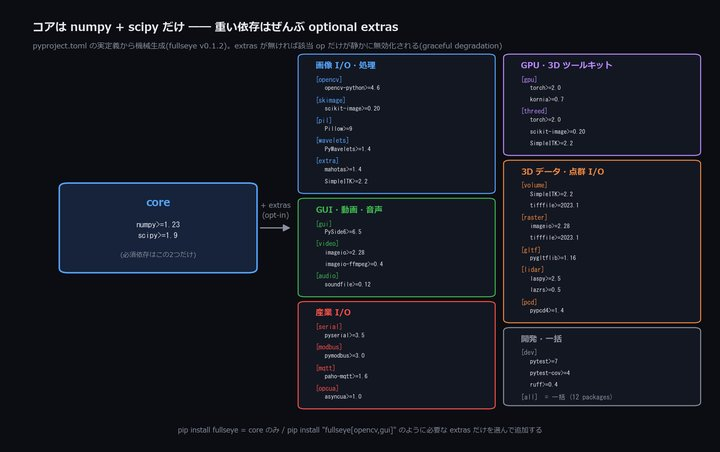
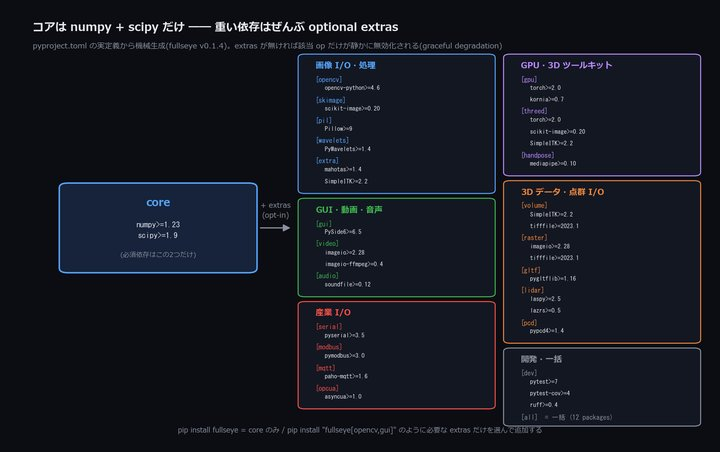
「テストは緑だが利用者だけ壊れる」構造を潰す: ブートストラップ 34 本 + 主張だけの検査 3 件
外部の発見担当の報告を一件ずつ一次検証して修正。

## 1. examples_3d 29 本 + tools 5 本にブートストラップが無かった

examples/ は 60/60 が sys.path ブートストラップを持つのに、examples_3d/ は
29 本、tools/ は 5 本が持たず **editable install に寄生**していた。実測:
site-packages の finder(2026-08-30 生成、200 モジュール)に torch_lazy が
入っておらず(追加は 09-01)、6 本が ModuleNotFoundError で全滅していた。
docs/OP_CATALOG.md は 112 件すべてに**裸の起動コマンド**を載せている。

## 2. なぜテストが緑のままだったか

examples3d.run() が **PYTHONPATH を無条件に注入**していたため、
**ドキュメントが案内する起動方法を一度も試していなかった**。既定で注入を
やめ(inject_path=True の opt-in に)、呼び出し側の PYTHONPATH も落とす。
docstring の起動例からも PYTHONPATH= を削除。

## 3. 主張だけあって実装が無かった検査

docs/ops/INDEX.md のヘッダは「この fingerprint が live レジストリと一致する
ことを CI drift テストが強制する」と書いているのに、検査は
`"fingerprint" in top` という**文字列の存在確認だけ**だった。実値比較に
したところ即座に本物の drift を検出 —— 目次は 851 op のまま live は 861 op で
**10 op が索引から欠落**していた(個別 md は存在するのに辿れない)。
opdocs.py toc で再生成し fp=f9b948fbb9223a04 で一致。

主張だけあって実装が無い検査は、無い検査より悪い。「守られている」と読める
文言が残るぶん、誰も見に行かなくなる。

## 4. 残り 3 件

- exhibit_tile._fit_label が**複数行ラベルで落ちる**(Pillow 12.3 の
  textlength は改行で ValueError)。「ラベルは 1 行」という関数の前提と、
  label_h=54 で 2 行ラベルを渡す呼び出し側の契約が食い違っていた。
  gen_wing2d_gallery が 11 subject 中 3 件で落ちていたのが exit 0 に。
- gen_backmatter_figs.py の groups 表が handpose extra(08-31 追加)に
  追随しておらず fail-closed で停止。図が 2 日間再生成できなかった。
- examples/quickstart.py が subprocess の **returncode を一切見ず**、
  4 段すべてが落ちても exit 0 になっていた。assert も参照テストも無い。
  終了コード検査 + 生成物の存在確認 + PASS 行を追加。
  入門の 1 本目が黙って失敗するのは、壊れた op より質が悪い。

フルスイート 9742 passed / 0 failed / 140 skipped。
[…]

Changed region(s): [[0.6722, 0.3407, 0.9778, 0.9602]]

diff --git a/tests/test_opdocs.py b/tests/test_opdocs.py
@@ -84,6 +84,32 @@ def test_index_and_samples_generated():
     assert "fingerprint" in top and "fullseye" in top, "version/fingerprint linkage missing in top INDEX"
 
 
+def test_index_fingerprint_matches_the_live_registry():
+    """目次の fingerprint が **live レジストリと実際に一致**すること。
+
+    INDEX.md のヘッダは「この fingerprint が live レジストリと一致することを
+    CI の drift テストが強制する」と書いているが、2026-09-02 まで検査は
+    ``"fingerprint" in top`` という**文字列の存在確認だけ**で、値を比べて
+    いなかった。実測: 目次は 851 op のまま live は 861 op で、**10 op が
+    目次から欠落**していた(個別の md は存在するのに索引から辿れない)。
+
+    主張だけあって実装が無い検査は、無い検査より悪い —— 「守られている」と
+    読める文言が残るぶん、誰も見に行かなくなる。
+    """
+    import re as _re
+    fp_live = OD._registry_fingerprint(_RECS)
+    m = _re.search(r"op-registry fingerprint ([0-9a-f]+)", top_index_text())
+    assert m, "INDEX.md のヘッダに fingerprint が見つからない"
+    assert m.group(1) == fp_live, (
+        f"docs/ops/INDEX.md の fingerprint {m.group(1)} が live レジストリの "
+        f"{fp_live} と違う — `py -3.11 tools/opdocs.py md` で再生成すること")
+
+
+def top_index_text():
+    with open(os.path.join(ROOT, "docs/ops/INDEX.md"), encoding="utf-8") as f:
+        return f.read()
+
+
 def test_every_family_has_a_guide():
     gdir = os.path.join(ROOT, "docs", "ops", "2d", "guides")
     have = {os.path.splitext(f)[0] for f in os.listdir(gdir)} if os.path.isdir(gdir) else set()

diff --git a/docs/SESSION_SUMMARY.md b/docs/SESSION_SUMMARY.md
@@ -3,332 +3,54 @@
 > 自動生成: `libexec/raptor-auto-summary` (Stop hook)
 > 次回 ccr 起動時に CLAUDE.md SESSION START で自動的に読み取られる。
 
-- **最終更新**: 2026-09-02 20:00:08
+- **最終更新**: 2026-09-02 20:38:07
 - **プロジェクト**: `C:/dev/projects/imgevolve`
 - **ブランチ**: `master`
 
 ## 直近の git log
 
 ```
+f6c44a4f2 auto: test_opdocs.py 編集前 (2026-09-02 20:15)
+90fbab3f9 auto: quickstart.py 編集前 (2026-09-02 20:15)
+2e5cb5c31 auto: gen_backmatter_figs.py 編集前 (2026-09-02 20:14)
+6f2bd047f auto: exhibit_tile.py 編集前 (2026-09-02 20:14)
+b5d6372e4 auto: examples3d.py 編集前 (2026-09-02 20:14)
+42f176f51 死んでいた op を全部生かす: keypoints sort 分離 + 重複解消 + backend 実バグ 5 件
 0331348df auto: test_opdocs.py 編集前 (2026-09-02 19:54)
 f9774adc2 auto: ops.py 編集前 (2026-09-02 19:54)
 c95e10fef auto: ops.py 編集前 (2026-09-02 19:53)
 91bab0fde auto: test_backends_typed_liveness.py 編集前 (2026-09-02 19:34)
-2f773cbfd auto: test_backends_typed_liveness.py 編集前 (2026-09-02 19:34)
-447247ea0 auto: test_backends_typed.py 編集前 (2026-09-02 19:33)
-05977e6d2 auto: backends_typed.py 編集前 (2026-09-02 19:31)
-8d38e1117 auto: backends_typed.py 編集前 (2026-09-02 19:30)
-07c4dff4b auto: backends_typed.py 編集前 (2026-09-02 19:30)
-7c8597219 auto: ops.py 編集前 (2026-09-02 19:30)
 ```
 
 ## 現在の git status
 
 ```
-M data/wave0_pins.json
- M docs/SESSION_SUMMARY.md
- M docs/articles/assets/_wing3d_meta.json
- M docs/articles/fullseye_overview_qiita_en.md
- M docs/articles/fullseye_overview_qiita_ja.md
- M docs/ops/2d/contour/affine_trans_contour_xld.md
- M docs/ops/2d/contour/affine_trans_polygon_xld.md
- M docs/ops/2d/contour/close_contours_xld.md
- M docs/ops/2d/contour/contour_point_num_xld.md
- M docs/ops/2d/contour/contours_to_region.md
- M docs/ops/2d/contour/edges_color_sub_pix.md
- M docs/ops/2d/contour/edges_sub_pix.md
- M docs/ops/2d/contour/fit_line_contours.md
- M docs/ops/2d/contour/gen_contour_region_xld.md
- M docs/ops/2d/contour/gen_region_contour_xld.md
- M docs/ops/2d/contour/gen_region_polygon_xld.md
- M docs/ops/2d/contour/lines_color.md
- M docs/ops/2d/contour/lines_facet.md
- M docs/ops/2d/contour/lines_gauss.md
- M docs/ops/2d/contour/polar_trans_contour_xld.md
- M docs/ops/2d/contour/projective_trans_contour_xld.md
- M docs/ops/2d/contour/select_contours.md
- M docs/ops/2d/contour/select_contours_xld.md
- M docs/ops/2d/contour/select_shape_xld.md
- M docs/ops/2d/contour/shape_trans_xld.md
- M docs/ops/2d/contour/sk_find_contours.md
- M docs/ops/2d/contour/smooth_contours.md
- M docs/ops/2d/contour/smooth_contours_xld.md
- M docs/ops/2d/contour/threshold_sub_pix.md
- M docs/ops/2d/contour/zero_crossing_sub_pix.md
- M docs/ops/2d/edges/corner_response.md
- M docs/ops/2d/edges/cv_corner_harris.md
- M docs/ops/2d/edges/cv_laplacian.md
- M docs/ops/2d/edges/cv_min_eigen.md
- M docs/ops/2d/edges/cv_precorner.md
- M docs/ops/2d/edges/cv_scharr.md
- M docs/ops/2d/edges/derivate_gauss.md
- M docs/ops/2d/edges/diff_of_gauss.md
- M docs/ops/2d/edges/dog.md
- M docs/ops/2d/edges/dots_image.md
- M docs/ops/2d/edges/edges_color.md
- M docs/ops/2d/edges/f2_shock.md
- M docs/ops/2d/edges/f2_topographic.md
- M docs/ops/2d/edges/frei_amp.md
- M docs/ops/2d/edges/frei_dir.md
- M docs/ops/2d/edges/grad_dir.md
- M docs/ops/2d/edges/kirsch_amp.md
- M docs/ops/2d/edges/kirsch_dir.md
- M docs/ops/2d/edges/laplace.md
- M docs/ops/2d/edges/laplace_of_gauss.md
- M docs/ops/2d/edges/log.md
- M docs/ops/2d/edges/points_foerstner.md
- M docs/ops/2d/edges/points_harris_binomial.md
- M docs/ops/2d/edges/prewitt_amp.md
- M docs/ops/2d/edges/prewitt_dir.md
- M docs/ops/2d/edges/prewitt_mag.md
- M docs/ops/2d/edges/roberts.md
- M docs/ops/2d/edges/roberts_mag.md
- M docs/ops/2d/edges/robinson_amp.md
- M docs/ops/2d/edges/robinson_dir.md
- M docs/ops/2d/edges/sk_corner_harris.md
- M docs/ops/2d/edges/sk_dog.md
- M docs/ops/2d/edges/sk_farid.md
- M docs/ops/2d/edges/sk_hessian_det.md
- M docs/ops/2d/edges/sk_scharr.md
- M docs/ops/2d/edges/sobel_amp.md
- M docs/ops/2d/edges/sobel_dir.md
- M docs/ops/2d/edges/sobel_mag.md
- M docs/ops/2d/edges/tf_phase_congruency.md
- M docs/ops/2d/edges/tf_steerable_filter.md
- M docs/ops/2d/edges/xkor_dog.md
- M docs/ops/2d/edges/xkor_gftt.md
- M docs/ops/2d/edges/xkor_harris.md
- M docs/ops/2d/edges/xkor_hessian.md
- M docs/ops/2d/edges/xkor_laplacian.md
- M docs/ops/2d/edges/xpil_contour.md
- M docs/ops/2d/edges/xpil_find_edges.md
- M docs/ops/2d/edges/xsk2_corner_kr.md
- M docs/ops/2d/edges/xsk2_inv_gauss_grad.md
- M docs/ops/2d/edges/xsk3_corner_fast.md
- M docs/ops/2d/edges/xsk3_corner_moravec.md
- M docs/ops/2d/edges/xsk_hessian_eig.md
- M docs/ops/2d/edges/xsp_gauss_grad_mag.md
- M docs/ops/2d/edges/xsp_morph_laplace.md
- M docs/ops/2d/edges/xwt_directional_detail.md
- M docs/ops/2d/edges/xwt_hf_reconstruct.md
- M docs/ops/2d/halcon_ext/hx_gen_derivative_filter.md
- M docs/ops/2d/segmentation/adaptive_gauss_thresh.md
- M docs/ops/2d/segmentation/auto_threshold.md
- M docs/ops/2d/segmentation/bin_threshold.md
- M docs/ops/2d/segmentation/binary_threshold.md
- M docs/ops/2d/segmentation/canny.md
- M docs/ops/2d/segmentation/cv_adaptive_gauss.md
- M docs/ops/2d/segmentation/cv_adaptive_mean.md
- M docs/ops/2d/segmentation/cv_canny.md
- M docs/ops/2d/segmentation/cv_otsu.md
- M docs/ops/2d/segmentation/dual_threshold.md
- M docs/ops/2d/segmentation/dyn_threshold.md
- M docs/ops/2d/segmentation/edges_image.md
- M docs/ops/2d/segmentation/fast_threshold.md
- M docs/ops/2d/segmentation/h_threshold.md
- M docs/ops/2d/segmentation/hysteresis_threshold.md
- M docs/ops/2d/segmentation/it_region_to_bin.md
- M docs/ops/2d/segmentation/local_max.md
- M docs/ops/2d/segmentation/local_min.md
- M docs/ops/2d/segmentation/local_threshold.md
- M docs/ops/2d/segmentation/nonmax_suppression_amp.md
- M docs/ops/2d/segmentation/otsu.md
- M docs/ops/2d/segmentation/pouring.md
- M docs/ops/2d/segmentation/regiongrowing.md
- M docs/ops/2d/segmentation/regiongrowing_mean.md
- M docs/ops/2d/segmentation/segment_image_mser.md
- M docs/ops/2d/segmentation/sk_canny.md
- M docs/ops/2d/segmentation/sk_chan_vese.md
- M docs/ops/2d/segmentation/sk_felzenszwalb.md
- M docs/ops/2d/segmentation/sk_hysteresis.md
- M docs/ops/2d/segmentation/sk_li.md
- M docs/ops/2d/segmentation/sk_local_maxima.md
- M docs/ops/2d/segmentation/sk_niblack.md
- M docs/ops/2d/segmentation/sk_otsu.md
- M docs/ops/2d/segmentation/sk_sauvola.md
- M docs/ops/2d/segmentation/sk_slic.md
- M docs/ops/2d/segmentation/sk_yen.md
- M docs/ops/2d/segmentation/threshold.md
- M docs/ops/2d/segmentation/var_threshold.md
- M docs/ops/2d/segmentation/watersheds.md
- M docs/ops/2d/segmentation/watersheds_threshold.md
- M docs/ops/2d/segmentation/xcv2_meanshift.md
- M docs/ops/2d/segmentation/xcv_grabcut.md
- M docs/ops/2d/segmentation/xcv_watershed_markers.md
- M docs/ops/2d/segmentation/xkor_canny.md
- M docs/ops/2d/segmentation/xmh_bernsen.md
- M docs/ops/2d/segmentation/xsk2_h_maxima.md
- M docs/ops/2d/segmentation/xsk2_multiotsu.md
- M docs/ops/2d/segmentation/xsk3_h_minima.md
- M docs/ops/2d/segmentation/xsk3_peak_local_max.md
- M docs/ops/2d/segmentation/xsk3_rank_otsu.md
- M docs/ops/2d/segmentation/xsk3_threshold_local_median.md
- M docs/ops/2d/segmentation/xsk_flood.md
- M docs/ops/2d/segmentation/xsk_random_walker.md
- M docs/ops/2d/segmentation/zero_crossing.md
- M docs/ops/2d/typed/tb_keypoints_to_image2d.md
- M docs/ops/2d/typed/tb_keypoints_uv_to_points.md
- M docs/ops/2d/typed/tb_points_zyx_to_keypoints_uv.md
- M docs/ops/2d/typed/tb_project_points.md
- M studio_assets/op_help/adaptive_gauss_thresh.html
- M studio_assets/op_help/affine_trans_contour_xld.html
- M studio_assets/op_help/affine_trans_polygon_xld.html
- M studio_assets/op_help/auto_threshold.html
- M studio_assets/op_help/bin_threshold.html
- M studio_assets/op_help/binary_threshold.html
- M studio_assets/op_help/canny.html
- M studio_assets/op_help/close_contours_xld.html
- M studio_assets/op_help/contour_point_num_xld.html
- M studio_assets/op_help/contours_to_region.html
- M studio_assets/op_help/corner_response.html
- M studio_assets/op_help/cv_adaptive_gauss.html
- M studio_assets/op_help/cv_adaptive_mean.html
- M studio_assets/op_help/cv_canny.html
- M studio_assets/op_help/cv_corner_harris.html
- M studio_assets/op_help/cv_laplacian.html
- M studio_assets/op_help/cv_min_eigen.html
- M studio_assets/op_help/cv_otsu.html
- M studio_assets/op_help/cv_precorner.html
- M studio_assets/op_help/cv_scharr.html
- M studio_assets/op_help/derivate_gauss.html
- M studio_assets/op_help/diff_of_gauss.html
- M studio_assets/op_help/dog.html
- M studio_assets/op_help/dots_image.html
- M studio_assets/op_help/dual_threshold.html
- M studio_assets/op_help/dyn_threshold.html
- M studio_assets/op_help/edges_color.html
- M studio_assets/op_help/edges_color_sub_pix.html
- M studio_assets/op_help/edges_image.html
- M studio_assets/op_help/edges_sub_pix.html
- M studio_assets/op_help/f2_shock.html
- M studio_assets/op_help/f2_topographic.html
- M studio_assets/op_help/fast_threshold.html
- M studio_assets/op_help/fit_line_contours.html
- M studio_assets/op_help/frei_amp.html
- M studio_assets/op_help/frei_dir.html
- M studio_assets/op_help/gen_contour_region_xld.html
- M studio_assets/op_help/gen_region_contour_xld.html
- M studio_assets/op_help/gen_region_polygon_xld.html
- M studio_assets/op_help/grad_dir.html
- M studio_assets/op_help/h_threshold.html
- M studio_assets/op_help/hx_gen_derivative_filter.html
- M studio_assets/op_help/hysteresis_threshold.html
- M studio_assets/op_help/it_region_to_bin.html
- M studio_assets/op_help/kirsch_amp.html
- M studio_assets/op_help/kirsch_dir.html
- M studio_assets/op_help/laplace.html
- M studio_assets/op_help/laplace_of_gauss.html
- M studio_assets/op_help/lines_color.html
- M studio_assets/op_help/lines_facet.html
- M studio_assets/op_help/lines_gauss.html
- M studio_assets/op_help/local_max.html
- M studio_assets/op_help/local_min.html
- M studio_assets/op_help/local_threshold.html
- M studio_assets/op_help/log.html
- M studio_assets/op_help/nonmax_suppression_amp.html
- M studio_assets/op_help/points_foerstner.html
- M studio_assets/op_help/points_harris_binomial.html
- M studio_assets/op_help/polar_trans_contour_xld.html
- M studio_assets/op_help/pouring.html
- M studio_assets/op_help/prewitt_amp.html
- M studio_assets/op_help/prewitt_dir.html
- M studio_assets/op_help/prewitt_mag.html
- M studio_assets/op_help/projective_trans_contour_xld.html
- M studio_assets/op_help/regiongrowing.html
- M studio_assets/op_help/regiongrowing_mean.html
- M studio_assets/op_help/roberts.html
- M studio_assets/op_help/roberts_mag.html
- M studio_assets/op_help/robinson_amp.html
- M studio_assets/op_help/robinson_dir.html
- M studio_assets/op_help/segment_image_mser.html
- M studio_assets/op_help/select_contours.html
- M studio_assets/op_help/select_contours_xld.html
- M studio_assets/op_help/select_shape_xld.html
- M studio_assets/op_help/shape_trans_xld.html
- M studio_assets/op_help/sk_canny.html
- M studio_assets/op_help/sk_chan_vese.html
- M studio_assets/op_help/sk_corner_harris.html
- M studio_assets/op_help/sk_dog.html
- M studio_assets/op_help/sk_farid.html
- M studio_assets/op_help/sk_felzenszwalb.html
- M studio_assets/op_help/sk_find_contours.html
- M studio_assets/op_help/sk_hessian_det.html
- M studio_assets/op_help/sk_hysteresis.html
- M studio_assets/op_help/sk_li.html
- M studio_assets/op_help/sk_local_maxima.html
- M studio_assets/op_help/sk_niblack.html
- M studio_assets/op_help/sk_otsu.html
- M studio_assets/op_help/sk_sauvola.html
- M studio_assets/op_help/sk_scharr.html
- M studio_assets/op_help/sk_slic.html
- M studio_assets/op_help/sk_yen.html
- M studio_assets/op_help/smooth_contours.html
- M studio_assets/op_help/smooth_contours_xld.html
- M studio_assets/op_help/sobel_amp.html
- M studio_assets/op_help/sobel_dir.html
- M studio_assets/op_help/tb_keypoints_to_image2d.html
- M studio_assets/op_help/tb_keypoints_uv_to_points.html
- M studio_assets/op_help/tb_points_zyx_to_keypoints_uv.html
- M studio_assets/op_help/tb_project_points.html
- M studio_assets/op_help/tf_phase_congruency.html
- M studio_assets/op_help/tf_steerable_filter.html
- M studio_assets/op_help/threshold.html
- M studio_assets/op_help/threshold_sub_pix.html
- M studio_assets/op_help/var_threshold.html
- M studio_assets/op_help/watersheds.html
- M studio_assets/op_help/watersheds_threshold.html
- M studio_assets/op_help/xcv2_meanshift.html
- M studio_assets/op_help/xcv_grabcut.html
- M studio_assets/op_help/xcv_watershed_markers.html
- M studio_assets/op_help/xkor_canny.html
- M studio_assets/op_help/xkor_dog.html
- M studio_assets/op_help/xkor_gftt.html
- M studio_assets/op_help/xkor_harris.html
- M studio_assets/op_help/xkor_hessian.html
- M studio_assets/op_help/xkor_laplacian.html
- M studio_assets/op_help/xmh_bernsen.html
- M studio_assets/op_help/xpil_contour.html
- M studio_assets/op_help/xpil_find_edges.html
- M studio_assets/op_help/xsk2_corner_kr.html
- M studio_assets/op_help/xsk2_h_maxima.html
- M studio_assets/op_help/xsk2_inv_gauss_grad.html
- M studio_assets/op_help/xsk2_multiotsu.html
- M studio_assets/op_help/xsk3_corner_fast.html
- M studio_assets/op_help/xsk3_corner_moravec.html
- M studio_assets/op_help/xsk3_h_minima.html
- M studio_assets/op_help/xsk3_peak_local_max.html
- M studio_assets/op_help/xsk3_rank_otsu.html
- M studio_assets/op_help/xsk3_threshold_local_median.html
- M studio_assets/op_help/xsk_flood.html
- M studio_assets/op_help/xsk_hessian_eig.html
- M studio_assets/op_help/xsk_random_walker.html
- M studio_assets/op_help/xsp_gauss_grad_mag.html
- M studio_assets/op_help/xsp_morph_laplace.html
- M studio_assets/op_help/xwt_directional_detail.html
- M studio_assets/op_help/xwt_hf_reconstruct.html
- M studio_assets/op_help/zero_crossing.html
- M studio_assets/op_help/zero_crossing_sub_pix.html
+M docs/SESSION_SUMMARY.md
+ M docs/articles/assets/_wing2d_meta.json
+ M docs/articles/assets/fig_optional_extras.png
+ M docs/articles/assets/fig_optional_extras_thumb.jpg
+ M docs/ops/INDEX.md
  M tests/test_opdocs.py
 ```
 
 ## 直近 2 時間に変更されたファイル
 
 ```
-19:56 docs/SESSION_SUMMARY.md
-19:56 docs/articles/assets/_wing3d_manifest.md
-19:56 docs/articles/exhibits/wing3d.md
-19:56 docs/articles/exhibits/wing3d.en.md
-19:56 docs/articles/assets/_wing3d_meta.json
-19:56 docs/articles/assets/thumbs/wing3d_vessel_reslice_thumb.jpg
-19:56 docs/articles/assets/media/wing3d_vessel_reslice.mp4
-19:56 docs/articles/assets/media/wing3d_vessel_reslice.gif
-19:56 docs/articles/assets/thumbs/wing3d_isosurface_sweep_thumb.jpg
-19:56 docs/articles/assets/media/wing3d_isosurface_sweep.mp4
-19:56 docs/articles/assets/media/wing3d_isosurface_sweep.gif
-19:56 .pytest_cache/v/cache/nodeids
-19:56 .pytest_cache/v/cache/lastfailed
-19:56 docs/articles/assets/thumbs/wing3d_window_sweep_thumb.jpg
-19:56 docs/articles/assets/media/wing3d_window_sweep.mp4
+20:37 docs/SESSION_SUMMARY.md
+20:21 docs/articles/exhibits/wing2d.ja.md
+20:21 docs/articles/assets/_wing2d_meta.json
+20:21 docs/articles/assets/wing2d_resample_loss_thumb.jpg
+20:21 docs/articles/assets/wing2d_resample_loss.png
+20:21 docs/articles/assets/wing2d_texture_zoo_thumb.jpg
+20:21 docs/articles/assets/wing2d_texture_zoo.png
+20:21 docs/articles/assets/wing2d_colour_tour_thumb.jpg
+20:21 docs/articles/assets/wing2d_colour_tour.png
+20:21 docs/articles/assets/thumbs/wing2d_fit_residual_thumb.jpg
+20:21 docs/articles/assets/media/wing2d_fit_residual.gif
+20:21 docs/articles/assets/thumbs/wing2d_doc_deskew_thumb.jpg
+20:21 docs/articles/assets/media/wing2d_doc_deskew.gif
+20:20 docs/articles/assets/thumbs/wing2d_shape_match_thumb.jpg
+20:20 docs/articles/assets/media/wing2d_shape_match.gif
 ```
 
 ---

diff --git a/docs/ops/INDEX.md b/docs/ops/INDEX.md
@@ -1,4 +1,4 @@
-<!-- fullseye 0.1.0 · op-registry fingerprint 1a1d0b1ef9904cdd · generated by tools/opdocs.py -->
+<!-- fullseye 0.1.0 · op-registry fingerprint f9b948fbb9223a04 · generated by tools/opdocs.py -->
 <!-- md(このコーパス)と code(op レジストリ)の版接続: この fingerprint が live レジストリと -->
 <!-- 一致することを CI drift テストが強制する(再生成==commit 済み)。手編集しないこと。 -->
 # Fullseye Operator Docs — AI 使い方コーパス
